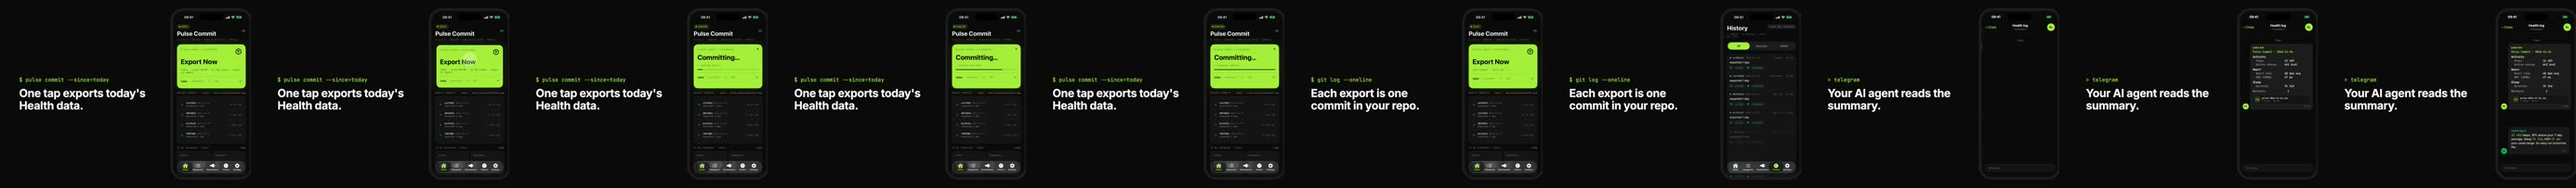
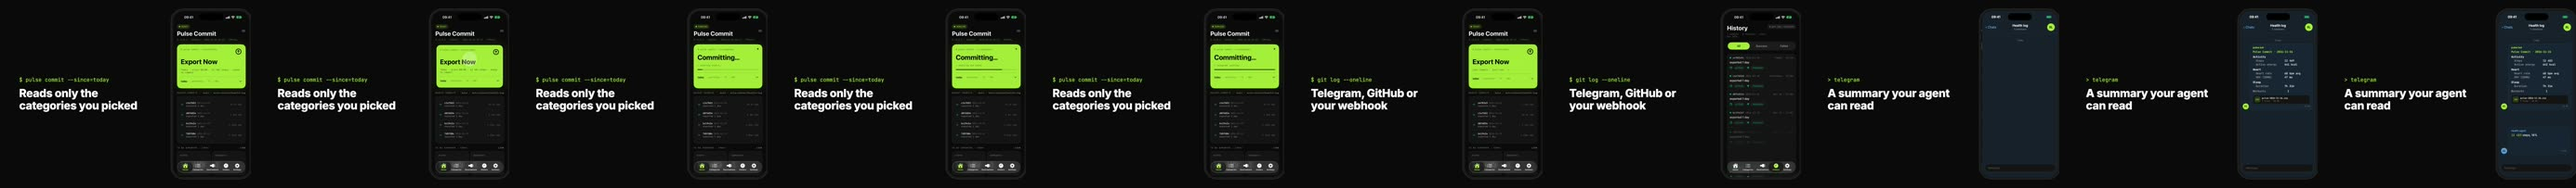
Hero video: word-by-word reply, refreshed frame strips

diff --git a/marketing/video/src/TelegramScene.tsx b/marketing/video/src/TelegramScene.tsx
@@ -238,10 +238,11 @@ const REPLY: { text: string; mono?: boolean }[] = [
 const Reply: React.FC<{ frame: number }> = ({ frame }) => {
   let budget = Math.max(0, Math.floor((frame - MARKS.replyIn) / 2.5)) + 1;
   return (
-    <div style={{ fontFamily: font.ui, fontSize: 46, lineHeight: 1.36, color: color.text, width: 880, minHeight: 320 }}>
+    <div style={{ fontFamily: font.ui, fontSize: 46, lineHeight: 1.36, color: color.text, width: 880 }}>
+      <div style={{ minHeight: 250 }}>
       {REPLY.map((part, i) => {
         const words = part.text.split(/(?<= )/);
-        const shown = part.mono ? (budget > 0 ? part.text : "") : words.slice(0, budget).join("");
+        const shown = part.mono ? (budget > 0 ? part.text : "") : words.slice(0, Math.max(0, budget)).join("");
         budget -= part.mono ? 1 : words.length;
         return (
           <span key={i} style={part.mono ? { fontFamily: font.mono, color: color.accent } : undefined}>
@@ -249,6 +250,7 @@ const Reply: React.FC<{ frame: number }> = ({ frame }) => {
           </span>
         );
       })}
+      </div>
       <div style={{ textAlign: "right", color: tg.dim, fontSize: 30, marginTop: 10, fontFamily: font.mono }}>21:01</div>
     </div>
   );
